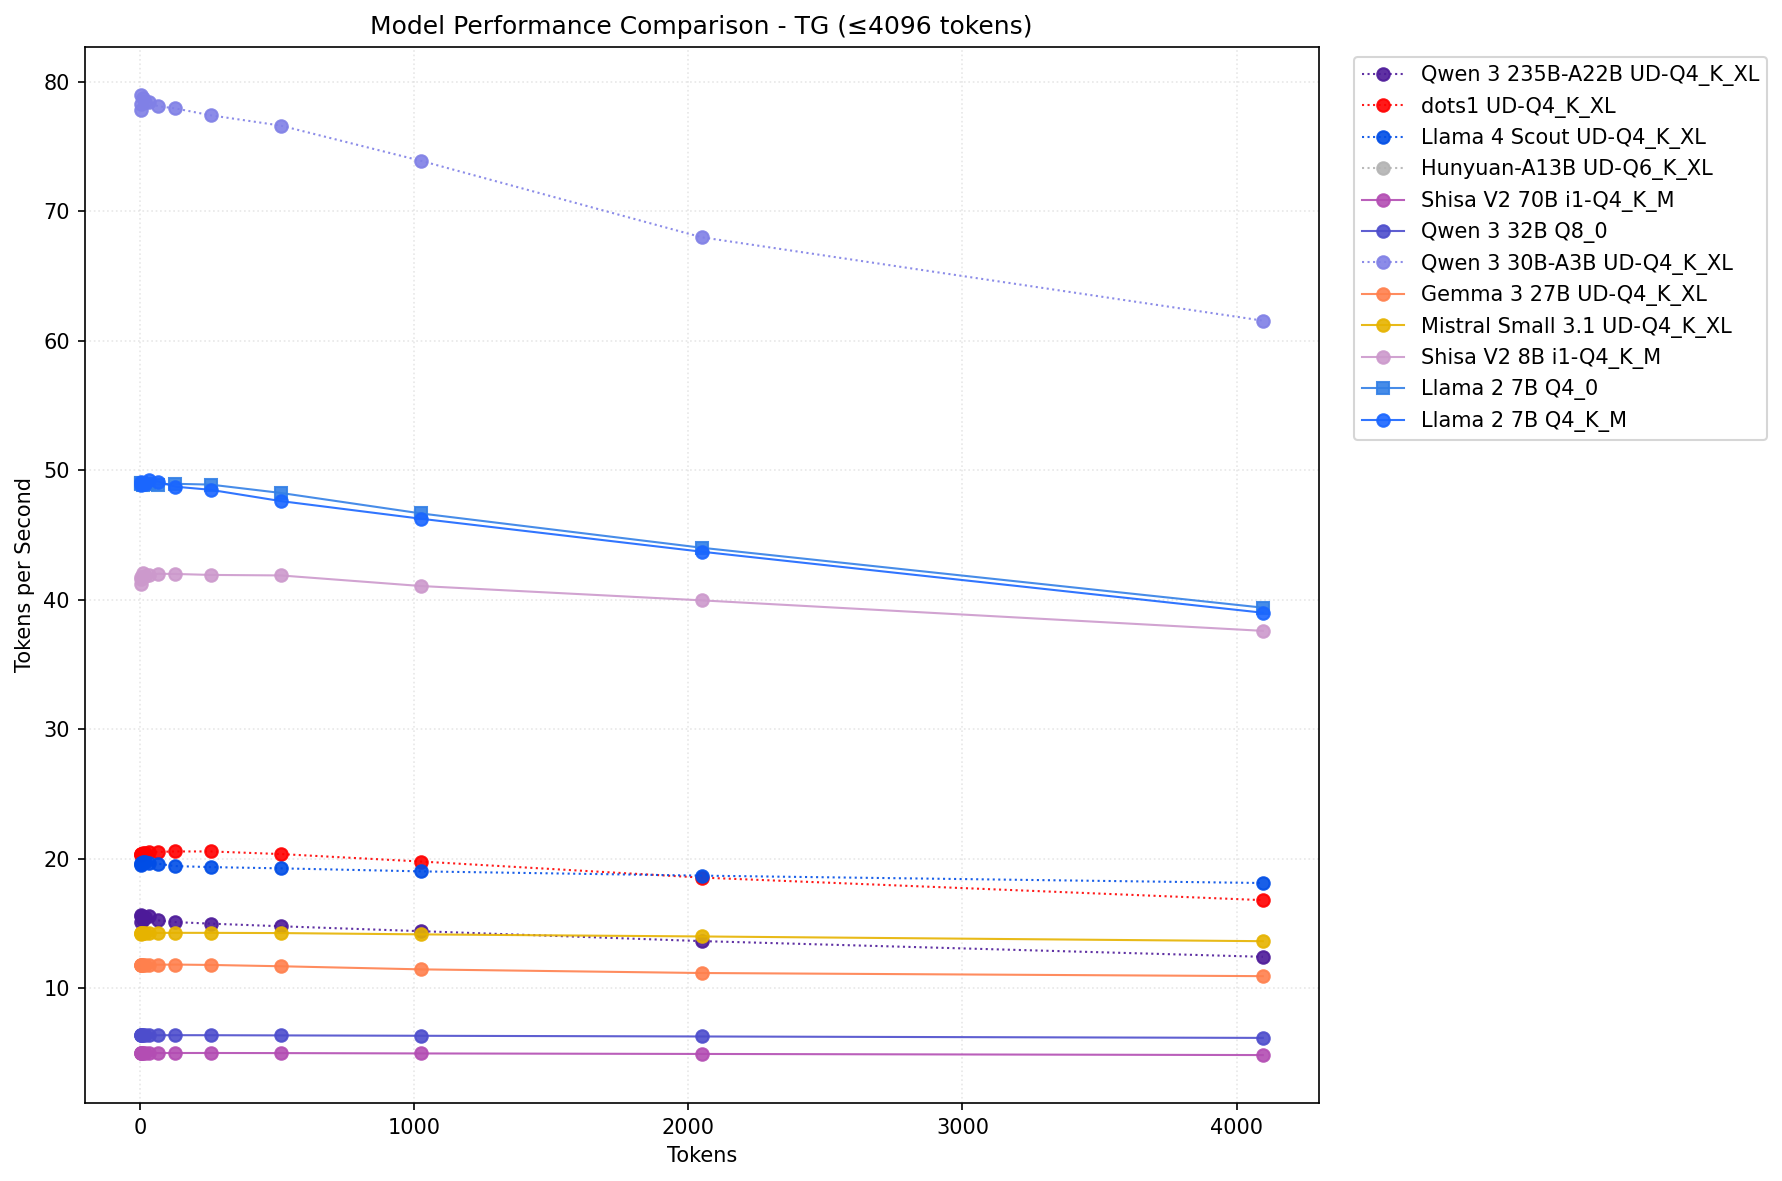
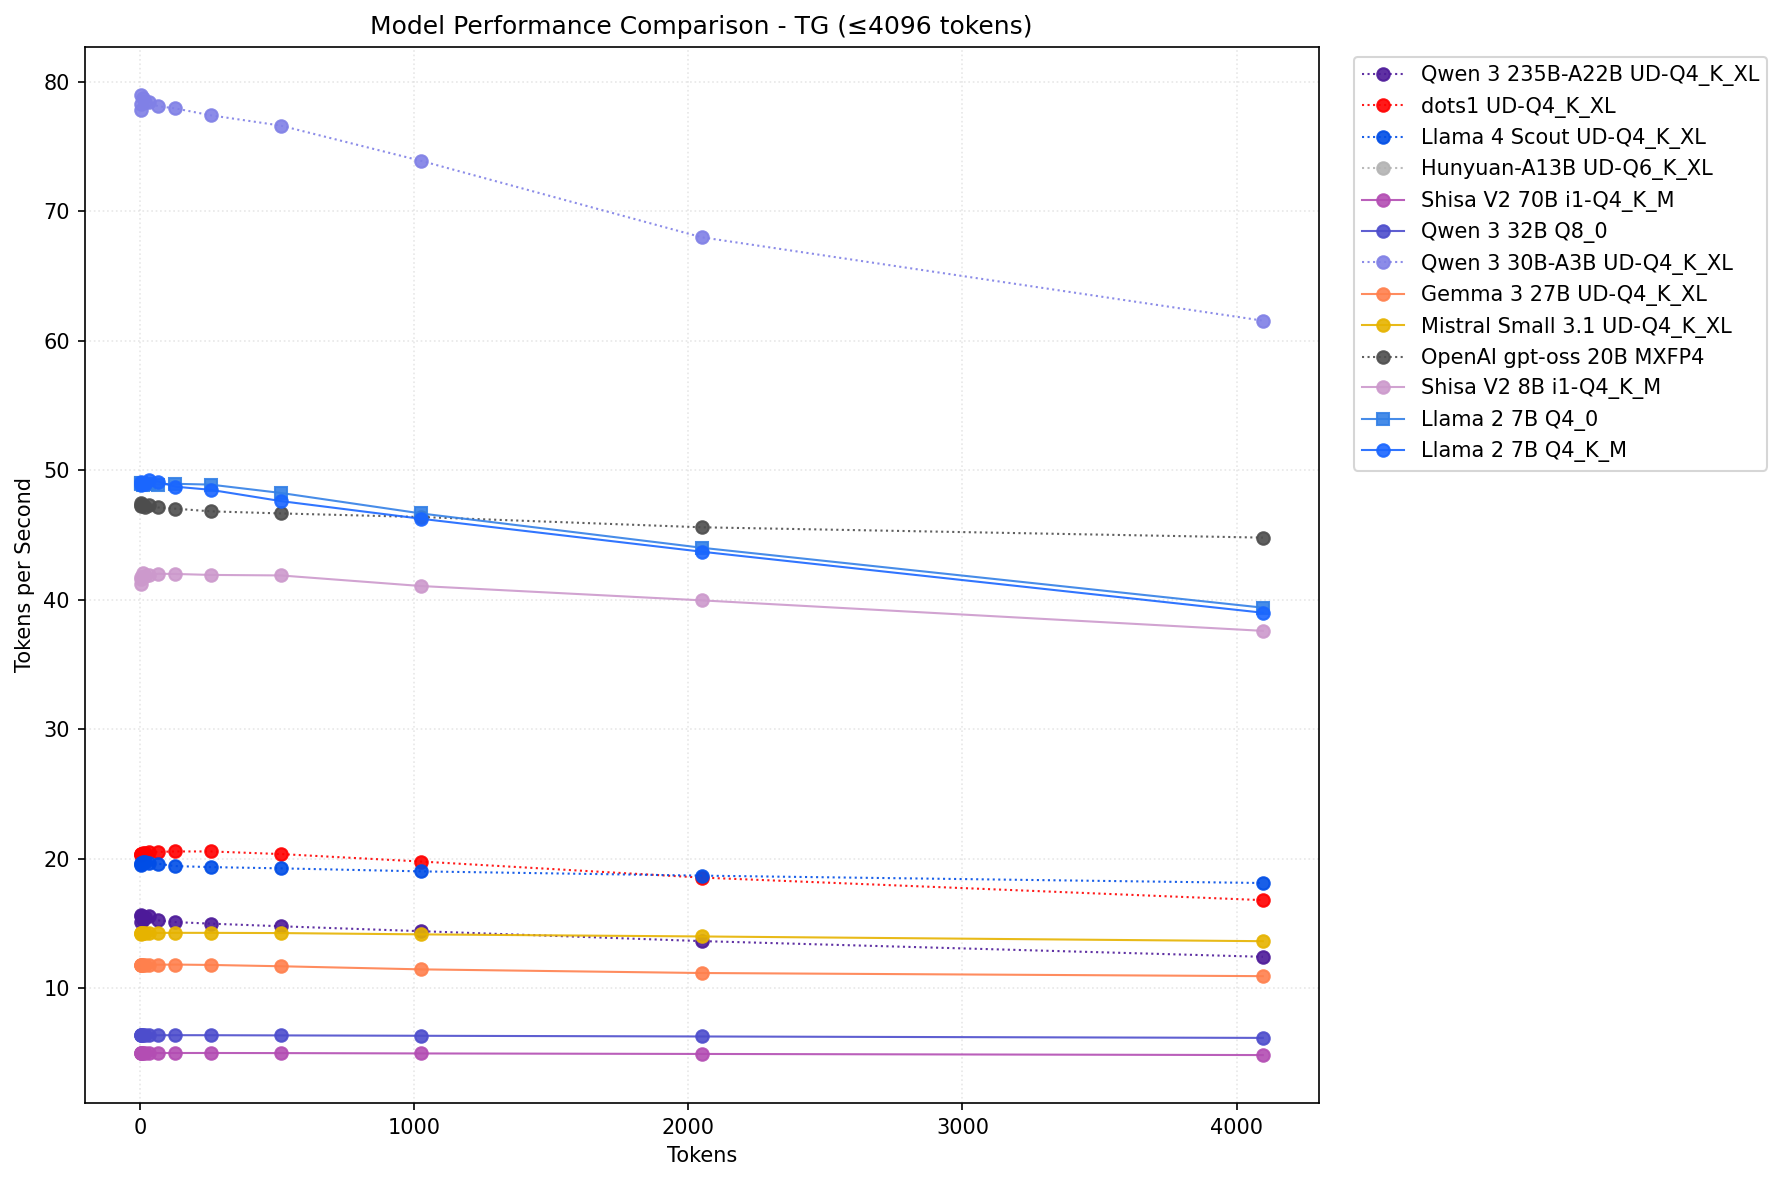
gpt-oss-20b

diff --git a/llm-bench/create-summary-readme.py b/llm-bench/create-summary-readme.py
@@ -166,6 +166,19 @@ MODELS = {
             "ls": "-",
         },
     },
+    "gpt-oss-20b-F16": {
+        "name": "OpenAI gpt-oss 20B MXFP4",
+        "arch": "gpt-oss",
+        "weights": 21,
+        "active": 3.6,
+        "pp": "hip_hipblaslt",
+        "tg": "vulkan_b=256",
+        "line": {
+            "color": (0.3, 0.3, 0.3, 0.9),
+            "lw": 1,
+            "ls": ":",
+        },
+    },
 }
 
 def load_model_results(model_key):

diff --git a/llm-bench/README.md b/llm-bench/README.md
@@ -91,6 +91,7 @@ cmake -S . -B build -DGGML_HIP=ON -DAMDGPU_TARGETS=gfx1151 -DGGML_HIP_ROCWMMA_FA
 |------------------------------|----------------|---------------|--------------|-------------|----------------|---------|---------|--------------------|
 | Hunyuan-A13B UD-Q6_K_XL      | Hunyuan MoE    |            80 |           13 | Vulkan      | fa=1           |   nan   |   nan   |                161 |
 | Llama 2 7B Q4_0              | Llama 2        |             7 |            7 | Vulkan      |                |  1230.0 |    48.3 |               4323 |
+| OpenAI gpt-oss 20B MXFP4     | gpt-oss        |            21 |            4 | HIP         | hipBLASLt      |  1196.2 |    46.9 |              12958 |
 | Llama 2 7B Q4_K_M            | Llama 2        |             7 |            7 | HIP rocWMMA | fa=1 hipBLASLt |  1083.0 |    41.3 |               4720 |
 | Shisa V2 8B i1-Q4_K_M        | Llama 3        |             8 |            8 | HIP         | hipBLASLt      |   878.2 |    37.2 |               5308 |
 | Mistral Small 3.1 UD-Q4_K_XL | Mistral 3      |            24 |           24 | HIP         | hipBLASLt      |   316.9 |    13.6 |              14638 |
@@ -110,6 +111,7 @@ cmake -S . -B build -DGGML_HIP=ON -DAMDGPU_TARGETS=gfx1151 -DGGML_HIP_ROCWMMA_FA
 | Qwen 3 30B-A3B UD-Q4_K_XL    | Qwen 3 MoE     |            30 |            3 | Vulkan    | b=256          |   645.5 |    78.0 |              17377 |
 | Llama 2 7B Q4_0              | Llama 2        |             7 |            7 | HIP       | fa=1 hipBLASLt |   975.3 |    49.4 |               4429 |
 | Llama 2 7B Q4_K_M            | Llama 2        |             7 |            7 | Vulkan    | fa=1           |   787.6 |    48.7 |               4463 |
+| OpenAI gpt-oss 20B MXFP4     | gpt-oss        |            21 |            4 | Vulkan    | b=256          |   943.1 |    47.0 |              14684 |
 | Shisa V2 8B i1-Q4_K_M        | Llama 3        |             8 |            8 | Vulkan    | fa=1           |   614.2 |    42.0 |               5333 |
 | dots1 UD-Q4_K_XL             | dots1 MoE      |           142 |           14 | Vulkan    | fa=1 b=256     |    63.1 |    20.6 |              84077 |
 | Llama 4 Scout UD-Q4_K_XL     | Llama 4 MoE    |           109 |           17 | Vulkan    | fa=1 b=256     |   157.8 |    19.4 |              59917 |
